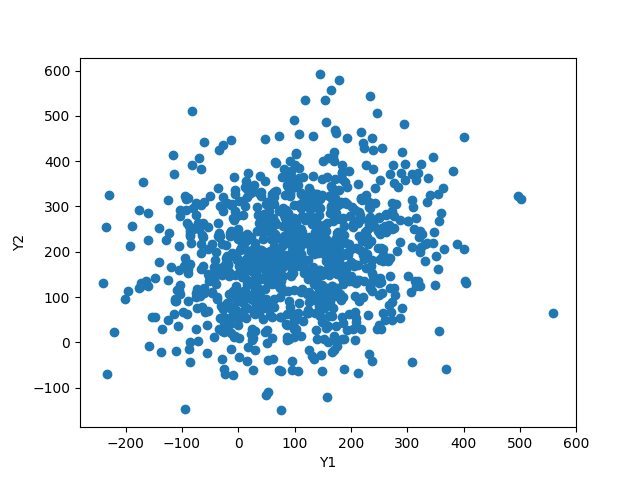
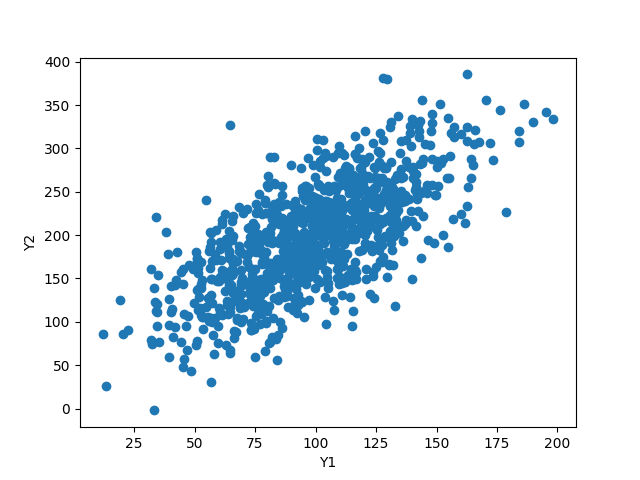
fix cov

diff --git a/exercise2/sampling-with-multivariate-norm.py b/exercise2/sampling-with-multivariate-norm.py
@@ -8,10 +8,13 @@ if __name__ == "__main__":
     mu_2 = 200
     N = 1000
     mean = np.array([mu_1, mu_2])
+    sigma_1 = 0.3 * mu_1
+    sigma_2 = 0.3 * mu_2
+    sigma_12 = 0.7 * sigma_1 * sigma_2
     cov = np.array(
         [
-            [(0.3 * mu_1) ** 2, 0.7 * mu_1 * mu_2],
-            [0.7 * mu_1 * mu_2, (0.3 * mu_2) ** 2],
+            [sigma_1 ** 2, sigma_12],
+            [sigma_12, sigma_2 ** 2],
         ]
     )
     Y_1, Y_2 = np.random.multivariate_normal(mean, cov, size=N).T
